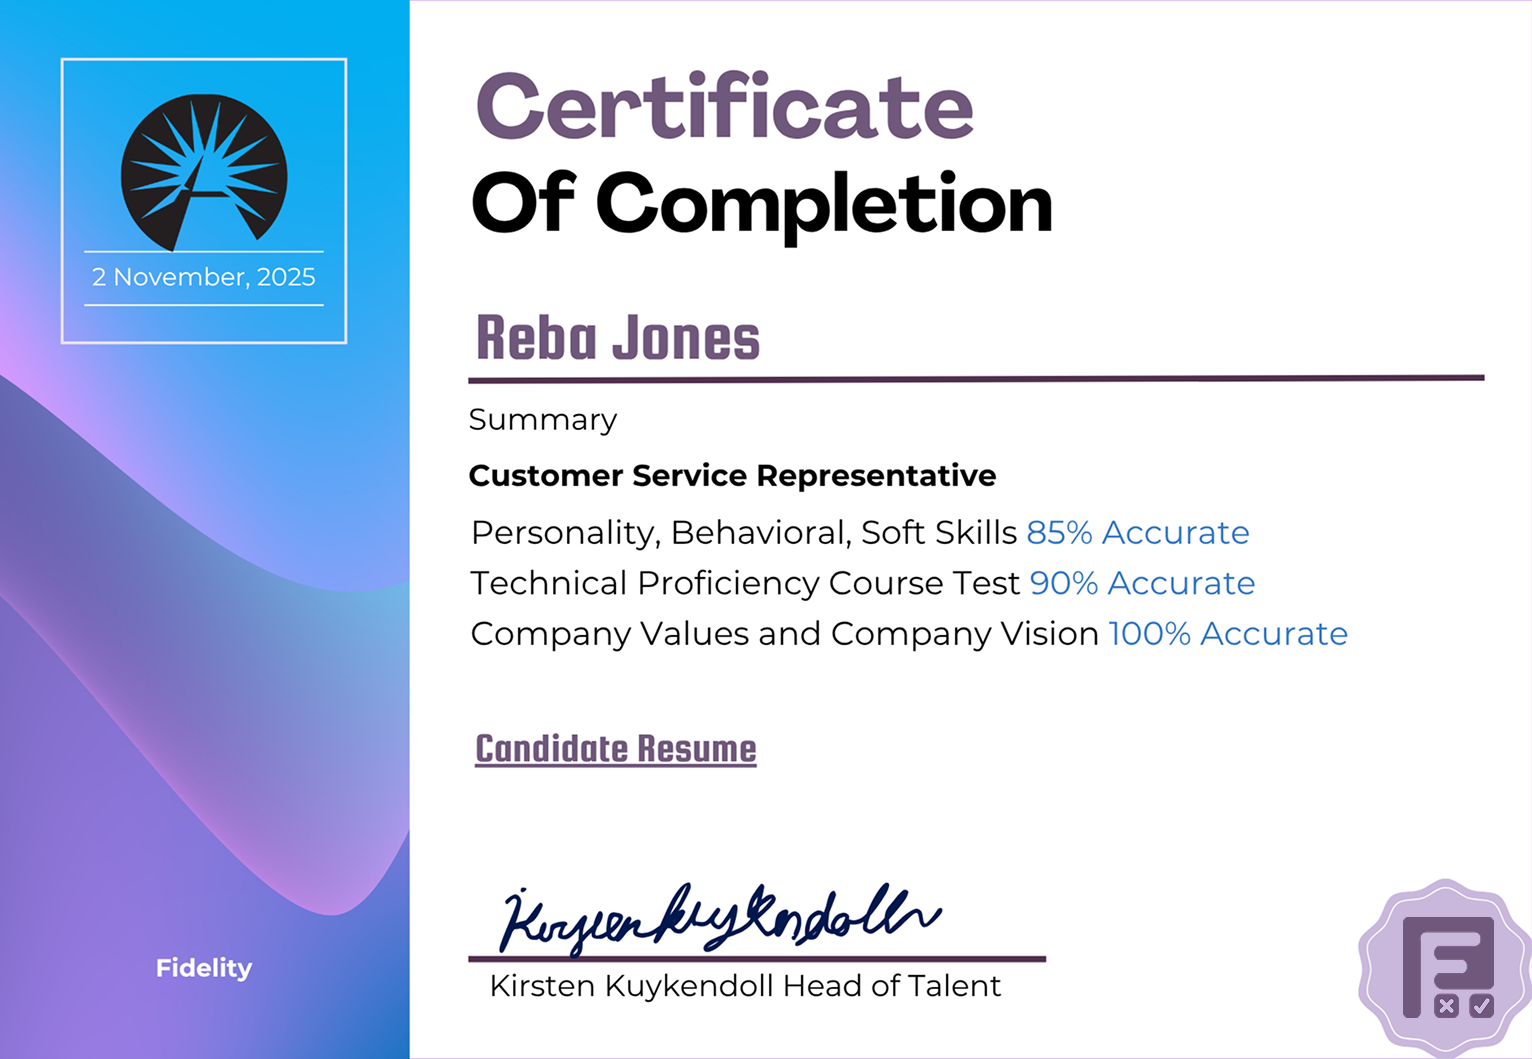
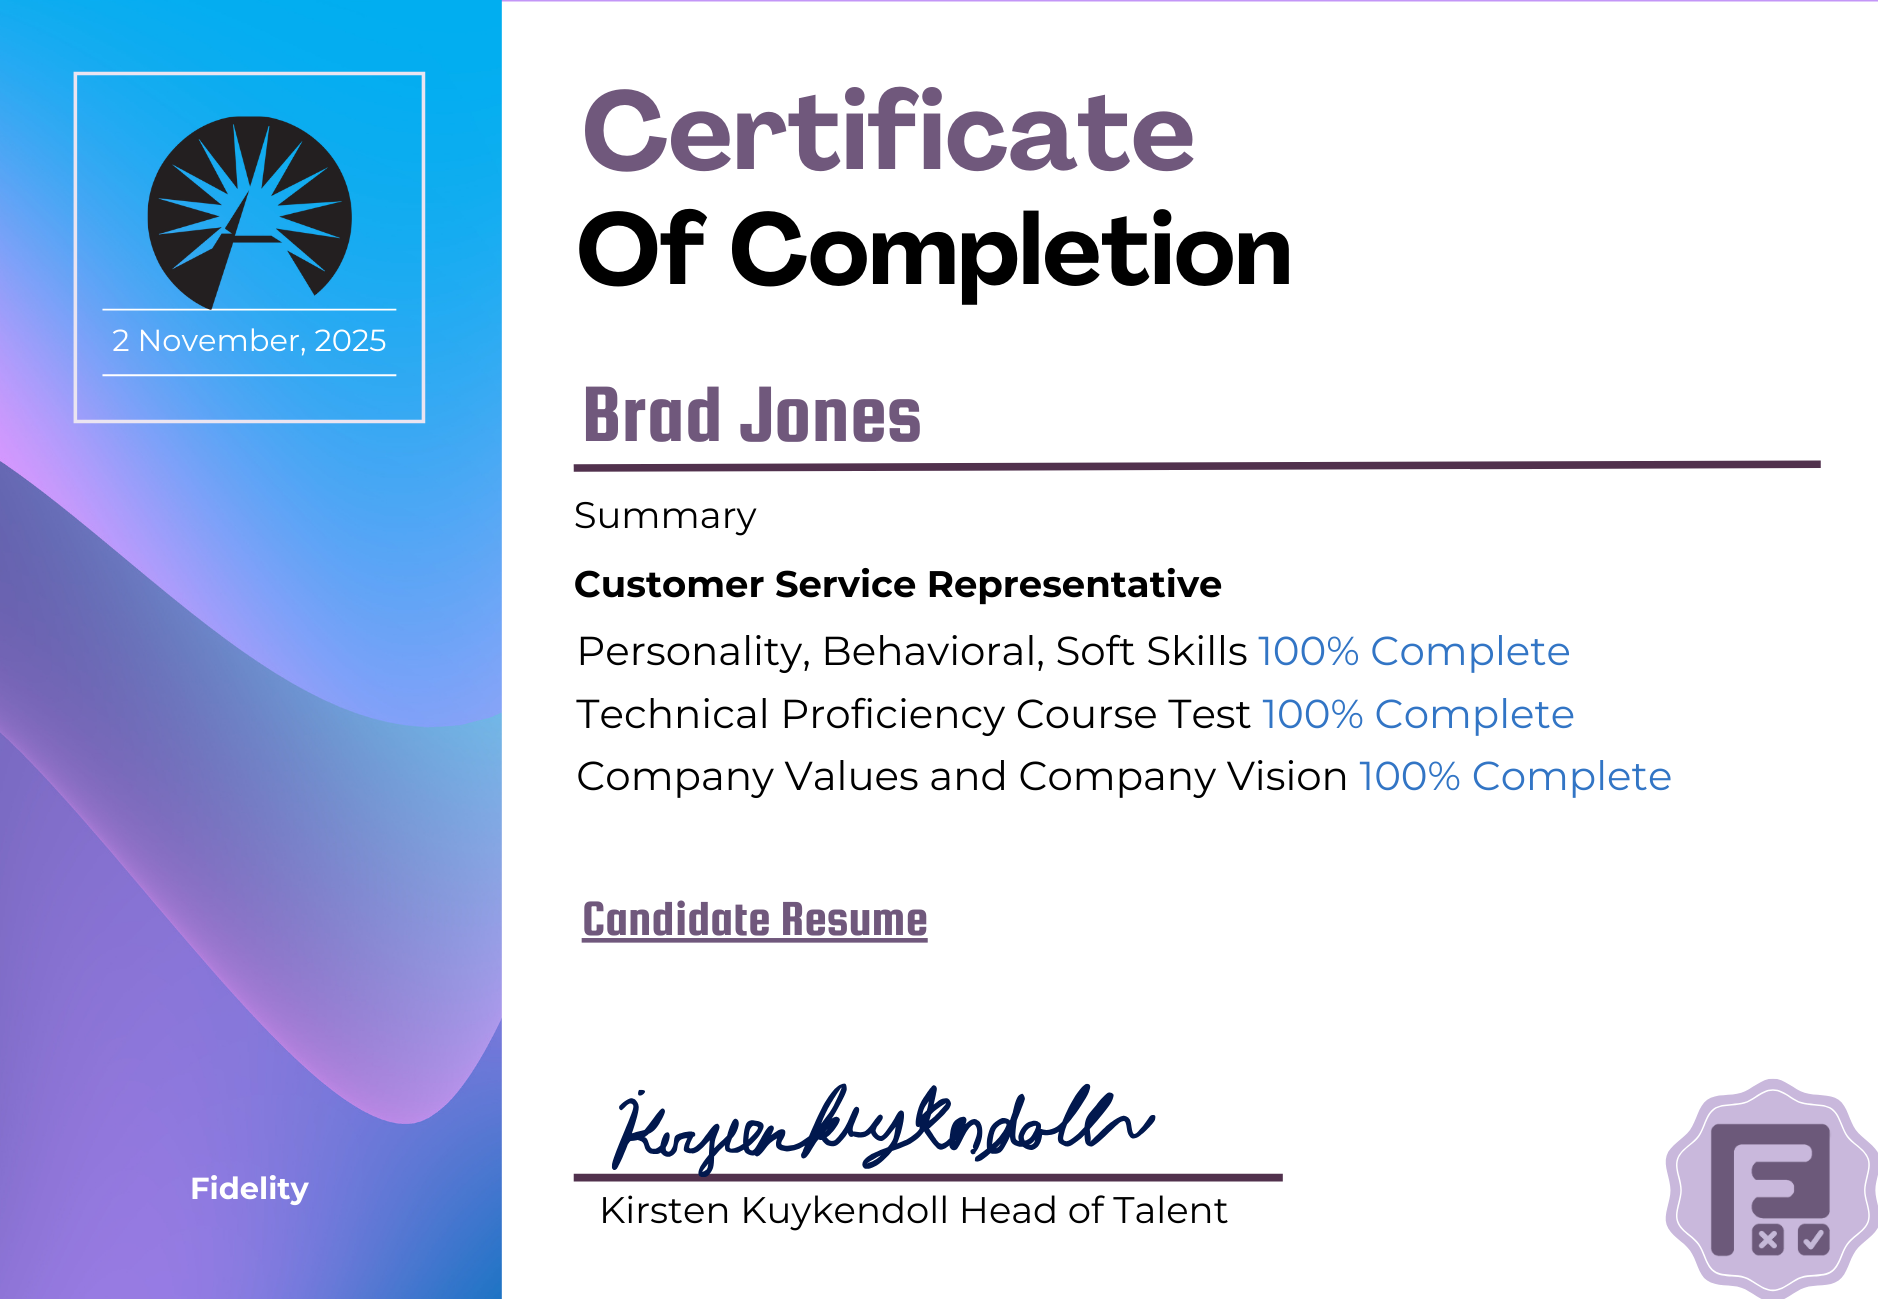
updated certificates

diff --git a/src/EmployerCertificatePage.tsx b/src/EmployerCertificatePage.tsx
@@ -1,6 +1,6 @@
 import { ArrowLeft, FileText, Linkedin, Award } from 'lucide-react';
 import prefaceLogo from './assets/preface-logo.png';
-import certificateImage from './assets/completion-cert.png';
+import certificateImage from './assets/company-view-cert.png';
 
 type SectionScore = { title: string; score: number; description?: string };
 
